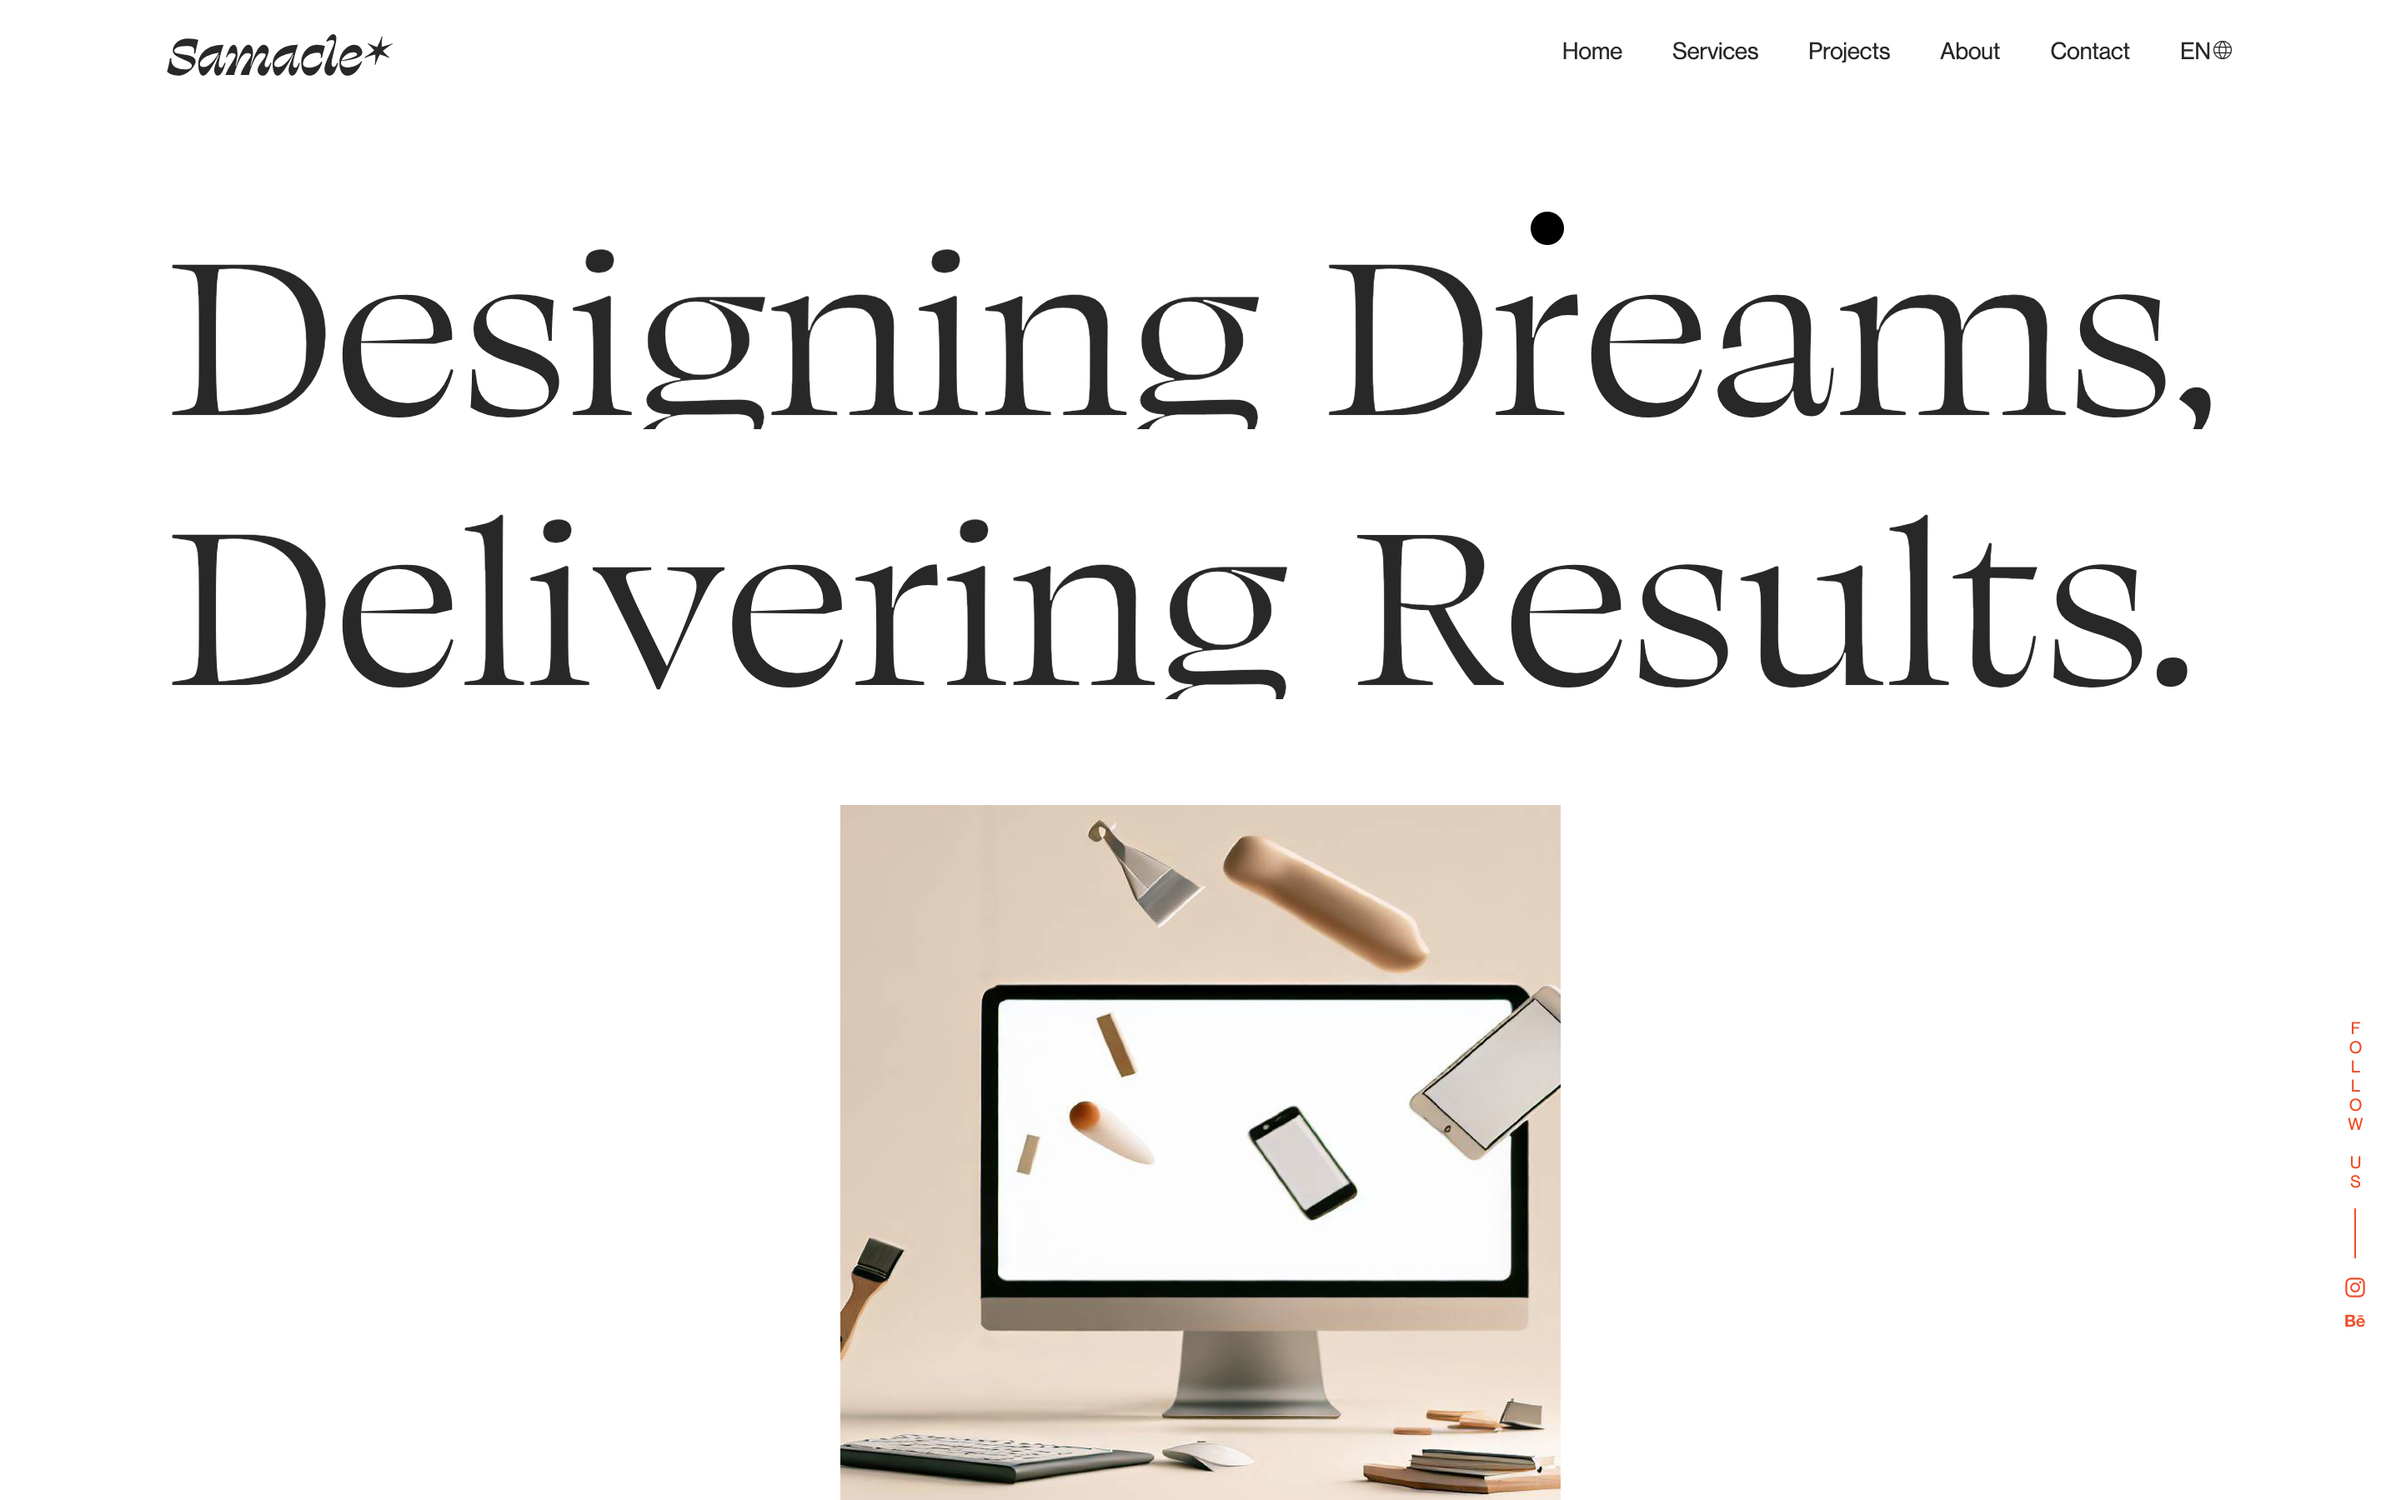
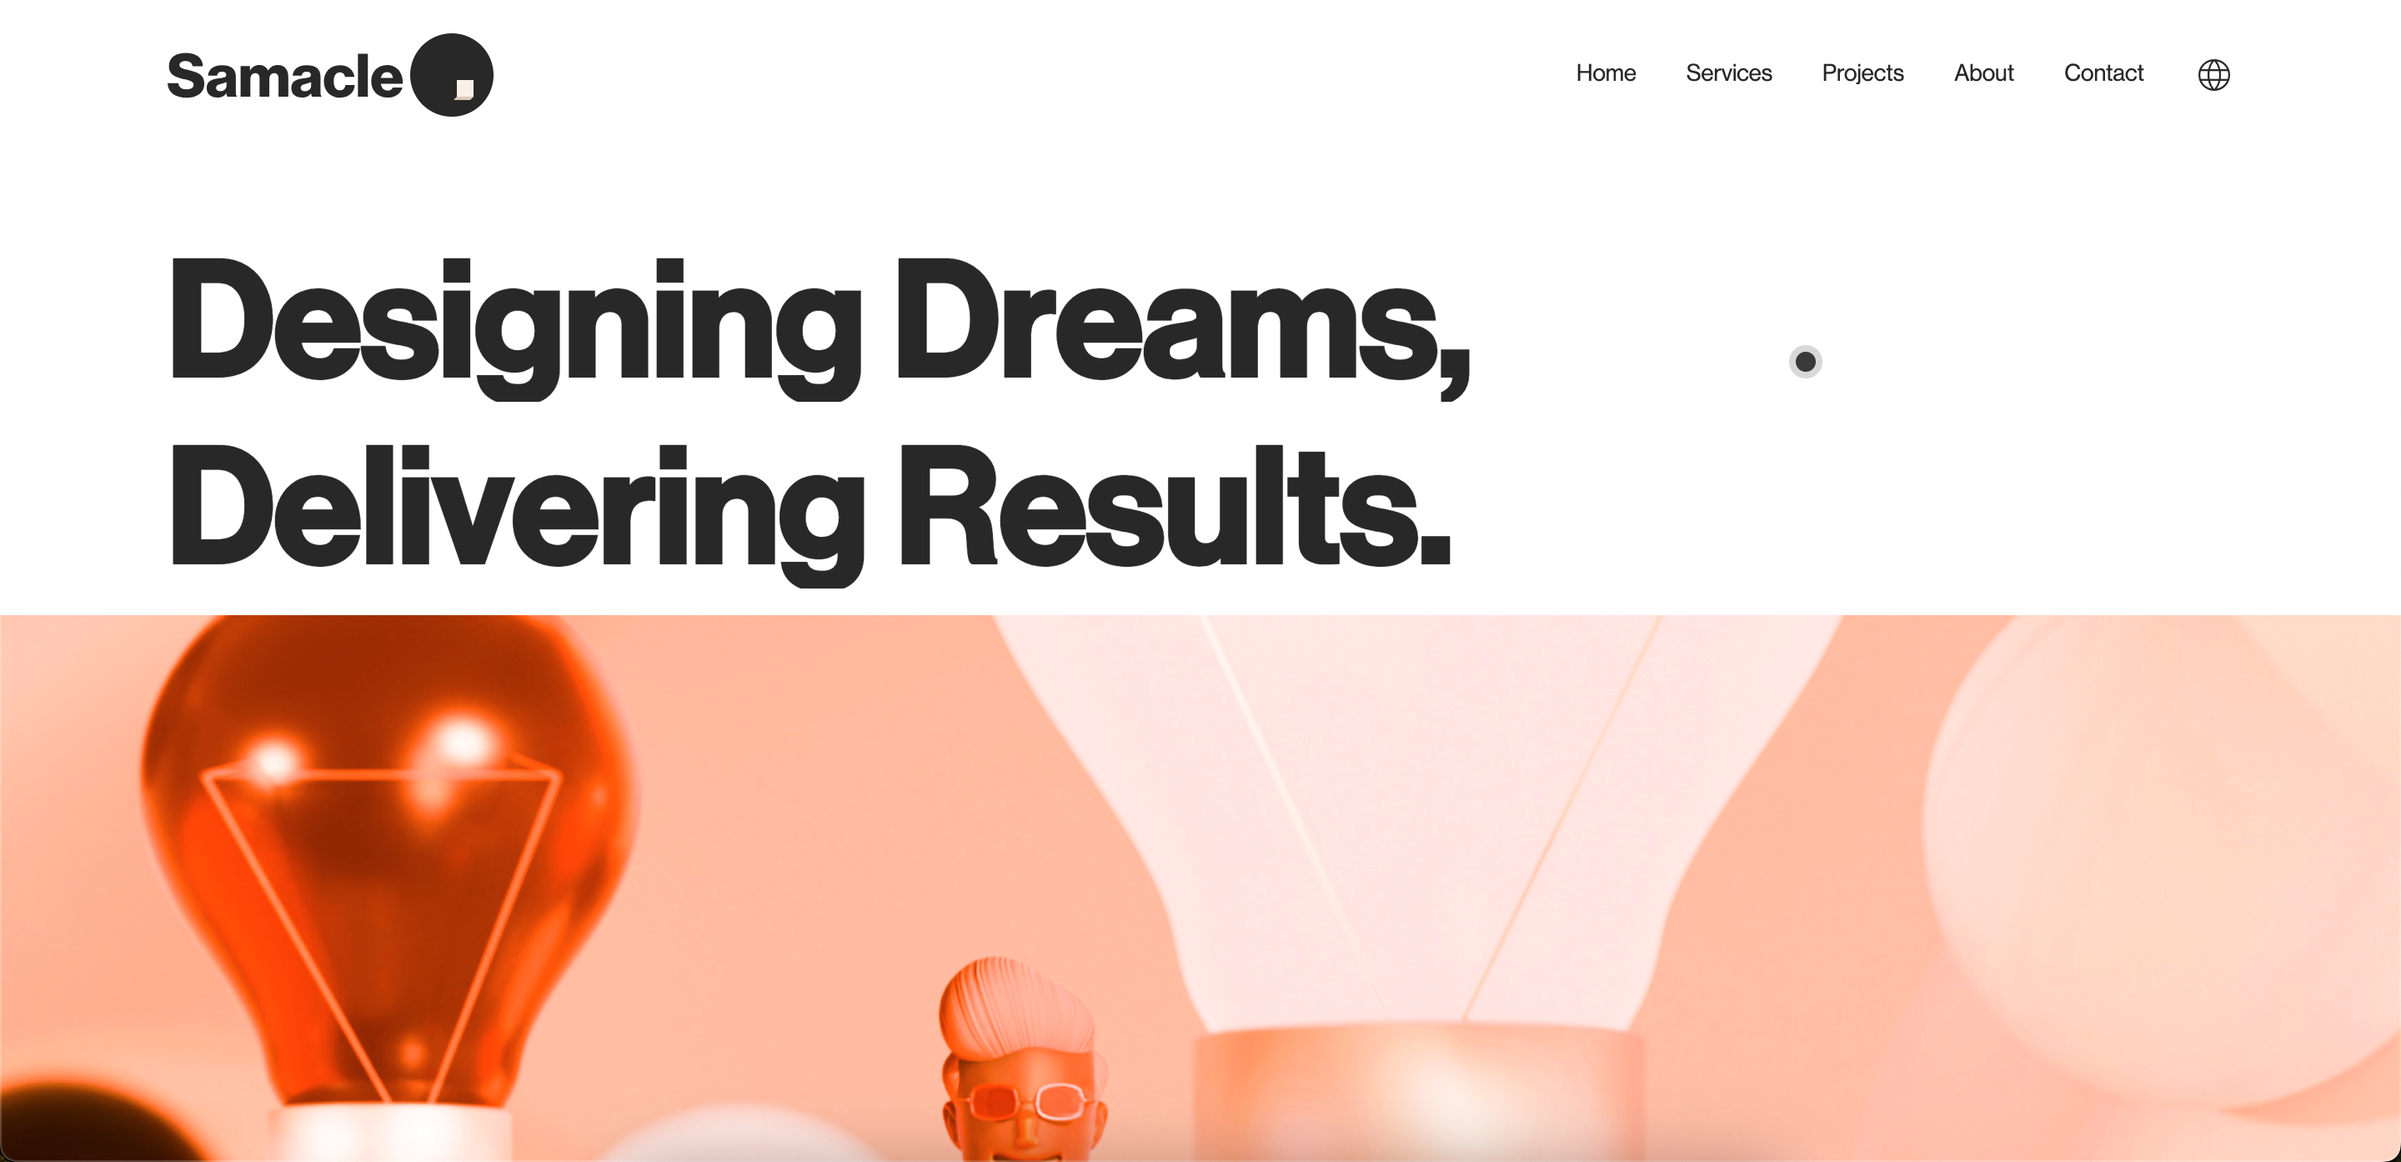
change hover images main menu and add border radius to images

diff --git a/src/components/home/services/index.tsx b/src/components/home/services/index.tsx
@@ -142,19 +142,16 @@ const Services = () => {
 
   return (
     <div ref={container}>
-      <Section
-        hasPadding
-        className="flex flex-col gap-50 min-h-[100vh] sevices-bg-trigger"
-      >
+      <Section className="flex flex-col gap-50 min-h-[100vh] sevices-bg-trigger py-mobile md:py-tablet lg:py-desktop">
         <SectionTitle
-          className="servicesTitle text-beige leading-[30px] font-medium"
+          className="servicesTitle text-beige leading-[30px] font-medium  px-mobile md:px-tablet lg:px-desktop"
           text={t("home.services.title")}
         ></SectionTitle>
         <section className="relative flex flex-col services">
           <div className="w-full m-auto container-services">
             <div className="flex flex-col w-full h-full content-services">
               {/* header */}
-              <div className="w-full hidden lg:grid grid-cols-2 pb-10 border-b-[1px] border-white gap-20 ">
+              <div className="w-full hidden lg:grid grid-cols-2 pb-10 border-b-[1px] border-white gap-20  px-mobile md:px-tablet lg:px-desktop">
                 <div className="w-full h-full">
                   <span className="text-white text-xsm">
                     ({t("home.services.tableHeaderOne")})

diff --git a/src/components/home/whyUs/desktop/photo/index.tsx b/src/components/home/whyUs/desktop/photo/index.tsx
@@ -6,7 +6,7 @@ type Props = {
 const Photo = ({ image, color }: Props) => {
   return (
     <div
-      className="desktopPhoto absolute w-full lg:w-[80%] h-full right-0"
+      className="desktopPhoto absolute w-full lg:w-[80%] h-full right-0 rounded-20"
       style={{
         background: `linear-gradient(180deg, ${color.split(" ")[0]} 0%, ${
           color.split(" ")[1]
@@ -15,7 +15,7 @@ const Photo = ({ image, color }: Props) => {
     >
       <div className="w-full h-full relative px-[30px] py-[50px]">
         <div
-          className="absolute w-[calc(100%-60px)] h-[calc(100%-100px)] lg:w-[calc(100%-100px)] lg:h-[calc(100%-200px)] left-1/2 top-1/2 transform -translate-x-1/2 -translate-y-1/2"
+          className="absolute w-[calc(100%-60px)] h-[calc(100%-100px)] lg:w-[calc(100%-100px)] lg:h-[calc(100%-200px)] left-1/2 top-1/2 transform -translate-x-1/2 -translate-y-1/2 rounded-[15px]"
           style={{
             backgroundImage: `url(${image})`,
             backgroundSize: "cover",

diff --git a/src/components/home/services/card/index.tsx b/src/components/home/services/card/index.tsx
@@ -12,7 +12,7 @@ const Card = ({ index }: Props) => {
 
   return (
     <div
-      className="item-service w-full grid gird-cols-1 md:grid-cols-2 border-b-[1px] border-white py-tablet gap-50 md:gap-20 lg:pl-tablet opacity-70 hover:opacity-100"
+      className="item-service w-full grid gird-cols-1 md:grid-cols-2 border-b-[1px] border-white py-tablet gap-50 md:gap-20 opacity-70 hover:opacity-100 px-mobile md:px-tablet lg:px-desktop"
       style={{
         transition: "0.5s",
       }}

diff --git a/src/components/home/projects/item/index.tsx b/src/components/home/projects/item/index.tsx
@@ -59,7 +59,7 @@ const Item = ({ project, alignLeft = false, isFirstOne = false }: Props) => {
               : "#"
           }
         >
-          <div className="relative w-full h-full overflow-hidden">
+          <div className="relative w-full h-full overflow-hidden rounded-20">
             <Image
               image={project.image}
               position={{

diff --git a/src/components/home/whyUs/index.tsx b/src/components/home/whyUs/index.tsx
@@ -43,7 +43,7 @@ const WhyUse = () => {
 
   return (
     <div ref={container}>
-      <div className="relative flex w-full gallery justify-between">
+      <div className="relative flex justify-between w-full gallery">
         {/* Left side */}
         <div className="w-1/2 left outline-1">
           {/* Desktop content */}

diff --git a/src/components/home/services/image/index.tsx b/src/components/home/services/image/index.tsx
@@ -5,7 +5,7 @@ type Props = {
 const Image = ({ image }: Props) => {
   return (
     <div
-      className="w-full h-full service-image"
+      className="w-full h-full service-image rounded-20"
       style={{
         backgroundImage: `url(${image})`,
         backgroundSize: "cover",

diff --git a/tailwind.config.js b/tailwind.config.js
@@ -44,6 +44,7 @@ export default {
       },
       borderRadius: {
         10: "10px",
+        20: "20px",
         button: "500px",
       },
     },
